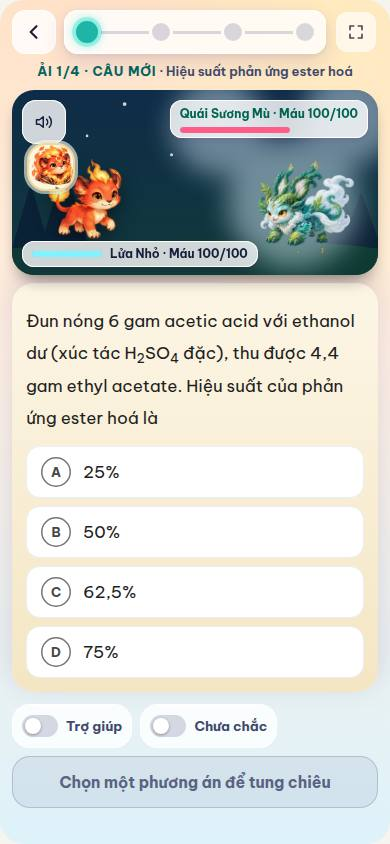
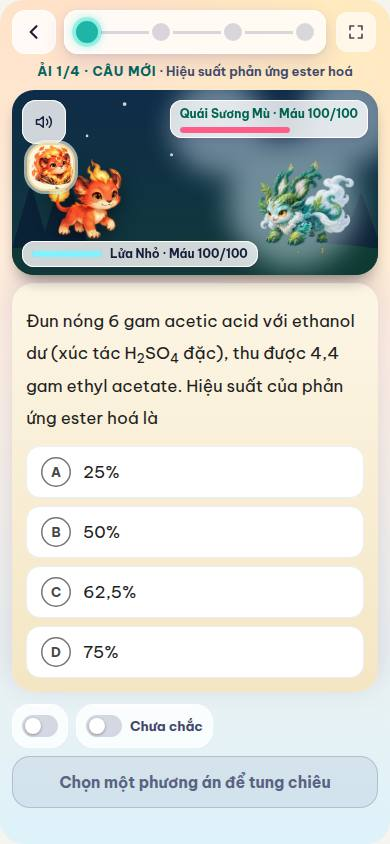
App học sinh giữ nguyên giao diện (thầy 05/10): hoàn nguyên 2 chỉnh ở Đảo + so điểm ảnh bản build thật main vs nhánh
Thầy: "app của học sinh giữ nguyên mọi thứ giao diện, hình nền màu nhé". Hoàn nguyên màu nút Hỏi thầy Đảo 2.0 và chữ chip Trợ giúp
(giữ đúng như bản đang chạy). So điểm ảnh bản build thật, giờ đóng băng, 9 màn học sinh: OMNI tắt khác 0 điểm ảnh ở cả 9 màn;
OMNI bật: Đảo chỉ khác đúng vùng chip "Chưa chắc" mới thêm, Sảnh lệch 1/255 (nhiễu dựng lớp). Bảng: docs/omni-0510/so-giao-dien-hs/KET-QUA.md.
Thầy dừng 4 làn tối ưu ⇒ sổ việc ghi KẸT, không gộp gì từ các làn.

Claude-Session: https://claude.ai/code/session_01CNsQjeB4jcWjbMohw272Tz

Changed region(s): [[0.3385, 0.8318, 0.6769, 0.8934], [0.1538, 0.8318, 0.3077, 0.8934]]

diff --git a/src/game/than-thu-v2/dao2/dao2.css b/src/game/than-thu-v2/dao2/dao2.css
@@ -495,16 +495,9 @@ html.may-yeu .dao2 .dao2-3d-bot,html.may-yeu .dao2 .dao2-3d-cuon,html.may-yeu .d
 }
 /* OMNI 3 (05/10) · chip "Chưa chắc" cạnh chip Trợ giúp: máy hẹp (≤ 400 px) vẫn giữ chữ — hai công tắc trơn đứng cạnh nhau không phân biệt được. */
 @media (max-width:400px){.dao2 .dao2-tro[data-khoi="chua-chac"] .dao2-tro-chu{display:inline}}
-/* Có chip "Chưa chắc" (OMNI bật) thì chip Trợ giúp cạnh nó cũng giữ chữ: một công tắc trơn không chữ đứng cạnh công tắc có chữ, em không biết
-   nó là gì (ảnh chụp 05/10). Hàng này đã xuống dòng nút chốt nên đủ chỗ. OMNI tắt ⇒ không có chip ⇒ y như cũ. */
-@media (max-width:400px){.dao2 .dao2-chan-hang:has([data-khoi="chua-chac"]) .dao2-tro-chu{display:inline}}
 /* OMNI 3 · ĐỀ THỬ: CHỈ bố cục — danh sách thẻ câu giấy của Đảo (dọc như ải), rộng tối đa 760 px cho dễ đọc; màu/nút dùng lại lớp sẵn có. */
 .dao2 .dao2-de-thu{display:flex;flex-direction:column;gap:12px;max-width:760px}
 .dao2 .dao2-de-thu-cau{display:flex;flex-direction:column;gap:6px}
-/* NÚT "HỎI THẦY" CỦA ĐẢO 2.0 = ĐÚNG MÀU CHUẨN của nút Hỏi thầy mọi màn khác (loi-giai.css: --m3-tertiary-container / --m3-on-tertiary-container;
- * thầy 05/10: "giữ nguyên mọi màu… thêm thì phải đồng bộ đúng chuẩn"). dao.css tô nút kiểu kính tối + chữ vàng cho Đảo cũ nền tối ⇒ trên thẻ
- * lời giải sáng của Đảo 2.0 thành chữ vàng trên nền kem, như nút bị khoá (đo trên bản build thật). Đặc hiệu 0,4,1 thắng `.dao.dao button.lg-nut--hoi`. */
-.dao.dao2.dao-v2 button.lg-nut--hoi{--nut-nen:var(--m3-tertiary-container);--nut-chu:var(--m3-on-tertiary-container);--nut-bong:none}
 /* ĐỀ THỬ (05/10): thanh nộp NỔI ở đáy suốt lúc làm (data-noi) — nút còn khoá có nền gần trong suốt (--d2-tat-nen) và dòng "Đã làm n/N câu"
  * không có nền ⇒ chữ thẻ câu bên dưới hiện xuyên qua, đè lên nhau (ảnh chụp 05/10). Ở ải thường thanh chỉ nổi khi đã chọn đáp án nên không gặp.
  * Cho thanh tấm nền KÍNH chuẩn của Đảo 2.0 (--d2-kinh + viền --d2-kinh-vien, đúng bộ màu chip Trợ giúp/Chưa chắc ngay trên — thầy 05/10:

diff --git a/SO-VIEC-OMNI-3.md b/SO-VIEC-OMNI-3.md
@@ -30,9 +30,9 @@ Mở 05/10/2026. Đặc tả: `DAC-TA-BUILD-OMNI-3-0510.md` (thắng mọi tệp
 
 - [x] "Làm luôn bộ sinh câu bảo toàn điện tích nhé" (thầy 05/10) ⇒ bộ sinh câu nền bao_toan_dien_tich, ion cùng tồn tại được, đáp án kiểm chéo độc lập ⇒ 27/29 bước | bằng chứng: 1995aeb6; omni-3-cau-nen-sinh 100/100 + chỉ số + nghiệm thu 103/103; tsc máy chủ sạch; 3 mẫu tính tay khớp (0,35 · 27,4 · 0,05)
 
-- [ ] "Tối ưu code cho tinh gọn" (thầy 05/10) ⇒ gọn mã OMNI: bỏ trùng lặp, mã chết, gộp hàm trùng | bằng chứng: (chưa có)
-- [ ] "tối ưu luôn cho máy chủ" ⇒ giảm số vòng D1 tuần tự + ms CPU ở lệnh nóng (hoa2-sanh, start, answer, việc đêm) | bằng chứng: (chưa có)
-- [ ] "app thật mượt mà nhanh gấp 2 lần hiện tại nhé" ⇒ đo bằng máy trên điện thoại yếu giả lập (scripts/do-app-hs.mjs) + đo máy chủ, so main hiện tại; mục tiêu ≥ 2× ở chỉ số chính | bằng chứng: (chưa có)
+- [!] "Tối ưu code cho tinh gọn" (thầy 05/10) ⇒ gọn mã OMNI: bỏ trùng lặp, mã chết, gộp hàm trùng | KẸT: thầy DỪNG cả 4 làn tối ưu (P1 mở app, P2 chuyển màn, P3 máy chủ, P4 gọn mã) lúc 05/10 khi nhắn "app của học sinh giữ nguyên mọi thứ giao diện"; theo lệnh không gộp gì từ các làn; số nền vẫn ở docs/toi-uu-0510/NEN.md; chờ thầy nói tiếp
+- [!] "tối ưu luôn cho máy chủ" ⇒ giảm số vòng D1 tuần tự + ms CPU ở lệnh nóng (hoa2-sanh, start, answer, việc đêm) | KẸT: thầy DỪNG cả 4 làn tối ưu (P1 mở app, P2 chuyển màn, P3 máy chủ, P4 gọn mã) lúc 05/10 khi nhắn "app của học sinh giữ nguyên mọi thứ giao diện"; theo lệnh không gộp gì từ các làn; số nền vẫn ở docs/toi-uu-0510/NEN.md; chờ thầy nói tiếp
+- [!] "app thật mượt mà nhanh gấp 2 lần hiện tại nhé" ⇒ đo bằng máy trên điện thoại yếu giả lập (scripts/do-app-hs.mjs) + đo máy chủ, so main hiện tại; mục tiêu ≥ 2× ở chỉ số chính | KẸT: thầy DỪNG cả 4 làn tối ưu (P1 mở app, P2 chuyển màn, P3 máy chủ, P4 gọn mã) lúc 05/10 khi nhắn "app của học sinh giữ nguyên mọi thứ giao diện"; theo lệnh không gộp gì từ các làn; số nền vẫn ở docs/toi-uu-0510/NEN.md; chờ thầy nói tiếp
 - [ ] "Chưa đẩy gì nhé" ⇒ KHÔNG deploy Worker/Pages, KHÔNG gộp main, KHÔNG migration --remote (chỉ đẩy nhánh tính năng để giữ việc) | bằng chứng: (chưa có)
 - [x] "Mục hỏi thầy theo thuật toán mới có tác dụng gì." (thầy 05/10) ⇒ giải thích bằng mã thật (không đoán) | bằng chứng: server/src/omni-p-vkn.ts (MS_SAU_DOC_LOI_GIAI 12 h, lượt có hỗ trợ không là quan sát), omni-d1.ts (chứng chỉ chỉ đếm lượt tự làm), loi-giai.ts (dòng xem_loi_giai); giao diện nút không đổi (diff main…HEAD không thêm chỗ Hỏi thầy nào)
 - [x] "Phần các câu cần chữa có thay đổi gì không?" ⇒ so main vs nhánh OMNI, nêu đúng chỗ đổi/không đổi | bằng chứng: OMNI tắt ⇒ thẻ "Cần thầy dạy lại" y nguyên; bật ⇒ "Cần thầy chữa" 3 nhóm (CanThayChuaOmni.tsx, omni-bang.ts NHOM_CAN_THAY_CHUA); luật vào danh sách (sai ≥ 4, lần cuối sai) không đổi (ho-so-nam-kt.ts); Buổi chữa chỉ đổi nguồn câu "Mở ca chốt" (BuoiChua.tsx); báo cáo ca thi (ca-thi/) không đổi. Sửa lỗi chữ tràn "…đơn chức2 em" (nguyên nhân gốc: luật chung `.cd-ds-cau li b:last-child { nowrap }` bắt nhầm tên câu) — đo hộp trong Chromium trước/sau, test bảng 35/35
@@ -43,6 +43,8 @@ Mở 05/10/2026. Đặc tả: `DAC-TA-BUILD-OMNI-3-0510.md` (thắng mọi tệp
 - [x] (tự phát sinh) Trang chụp: màn thầy thiếu khung app thầy (mất màu bảng nhiệt), Đảo thiếu dao.css (nút mất nền), số xem trước Bài 3 lệch | bằng chứng: 77b2f450, dcce6550
 - [x] "Tôi muốn giữ nguyên mọi màu sắc các lớp trong 3 app hiện tại" (thầy 05/10) ⇒ không đổi màu nào đang có ở 3 app | bằng chứng: scripts/kiem-mau-giu-nguyen.mjs (npm run kiem:mau-giu) so origin/main: 46 tệp src/ đổi · 0 khai báo màu bị đổi/xoá; tự thử 5 kiểu vi phạm đều bắt được (thoát 1), hoàn nguyên thoát 0; server/src + public: 0 dòng màu đổi; luật ghi vào CLAUDE.md + chuẩn mục 8; đã báo 4 làn tối ưu
 - [x] "bạn thêm thì phải đồng bộ đúng chuẩn nhé" ⇒ mọi màu OMNI/sửa mới thêm phải dùng biến màu chuẩn đang có của đúng app (không màu tự chế); soát toàn bộ phần thêm so main | bằng chứng: phần OMNI của các làn chỉ dùng biến (0 màu thô); màu tự chế DUY NHẤT là của điều phối (nút Hỏi thầy Đảo, 27f515ac) ⇒ đổi sang đúng biến của nút Hỏi thầy mọi màn (--m3-tertiary-container / --m3-on-tertiary-container), đo trên bản build thật: nền rgb(225,241,211) = biến chuẩn, chữ rgb(35,76,41) = biến chuẩn; thanh nộp Đề thử dùng bộ kính chuẩn Đảo 2.0 (--d2-kinh, --d2-kinh-vien) như chip ngay trên; test Đảo 35/35
+- [ ] "đưa nhóm câu sai từ từ 4 lần lên đầu thẻ néh" (thầy 05/10) ⇒ thẻ "Cần thầy chữa": nhóm "Câu sai từ 4 lần, đã rời kế hoạch" đứng ĐẦU, rồi nút thắt, rồi sơ ý | bằng chứng: (chưa có) — thầy DỪNG lượt sửa này (từ chối lệnh), chưa làm; chờ thầy nói tiếp
+- [x] "app của học sinh giữ nguyên mọi thứ giao diện, hình nền màu nhé" (thầy 05/10, kèm ảnh Sảnh bản đang chạy) ⇒ app học sinh nhìn y hệt bản đang chạy: bố cục, hình nền, màu; tối ưu không được đổi gì thấy được | bằng chứng: hoàn nguyên 2 chỉnh của điều phối ở Đảo (màu nút Hỏi thầy, chữ chip Trợ giúp); so điểm ảnh bản build thật main vs nhánh, giờ đóng băng: OMNI tắt 9/9 màn khác 0 điểm; OMNI bật: Đảo khác đúng vùng chip "Chưa chắc", Sảnh lệch 1/255 (nhiễu dựng lớp); docs/omni-0510/so-giao-dien-hs/KET-QUA.md
 
 ## Định nghĩa hoàn thành (chép từ đặc tả mục 9 — vạch đích, không đổi)
 

diff --git a/docs/omni-0510/so-giao-dien-hs/KET-QUA.md b/docs/omni-0510/so-giao-dien-hs/KET-QUA.md
@@ -1,0 +1,34 @@
+# App học sinh giữ nguyên giao diện — so điểm ảnh (05/10)
+
+Thầy: "app của học sinh giữ nguyên mọi thứ giao diện, hình nền màu nhé" (kèm ảnh Sảnh bản đang chạy).
+
+**Cách đo.** Bản build THẬT của app (không phải trang chụp thử): main `c74100ef` (bản đang chạy) và nhánh OMNI 3 (sau khi hoàn nguyên hai
+chỉnh màu/chữ của điều phối ở Đảo). Chromium, khổ 360×740 ×2, máy chủ giả của `scripts/do-app-hs.mjs` (không dữ liệu thật), cùng một giờ
+đóng băng (`page.clock.setFixedTime 2026-09-30T03:00Z`), tắt hoạt ảnh CHỈ lúc bấm chụp. So từng điểm ảnh bằng canvas của Chromium.
+Phép so tự thử: đưa hai màn khác nhau ⇒ 770 127 điểm khác (máy bắt được).
+
+## OMNI tắt (giống bản đang chạy của mọi lớp hôm nay)
+
+| Màn | Điểm ảnh | Khác |
+|---|---:|---:|
+| Đăng nhập | 1 065 600 | **0** |
+| Sảnh (tranh nền đảo, thần thú, khung đầu) | 1 065 600 | **0** |
+| Đảo · bản đồ | 1 065 600 | **0** |
+| Đảo · trận (đề + 4 phương án) | 1 065 600 | **0** |
+| Đảo · đã chọn đáp án | 1 065 600 | **0** |
+| Đảo · lời giải + nút Hỏi thầy | 1 065 600 | **0** |
+| Câu đã làm | 1 065 600 | **0** |
+| Đoàn Hộ Tống · trận | 1 065 600 | **0** |
+| Tu luyện | 1 065 600 | **0** |
+
+## OMNI bật (máy chủ giả trả thêm phần `omni`)
+
+| Màn | Kết quả |
+|---|---|
+| Đảo · trận | Khác đúng một vùng x 176–449, y 1208–1295 = chip **"Chưa chắc"** mới thêm; tranh nền, thẻ câu, màu trùng khít (`that-dao-omni-bat-vung-khac-360.jpg`, vùng đỏ) |
+| Sảnh · phần trên | 16 080 điểm lệch **1/255** (mắt không thấy — nhiễu dựng lớp vì bên dưới có thêm 3 dòng OMNI); không điểm nào lệch quá 1 |
+
+Ảnh: `that-sanh-ban-dang-chay-360.jpg` (main) · `that-sanh-nhanh-omni-tat-360.jpg` (nhánh) · `that-dao-loi-giai-hoi-thay-360.jpg` (nút Hỏi thầy đúng màu đang chạy).
+
+Ảnh Sảnh ở `docs/omni-0510/anh-build/` là TRANG CHỤP THỬ (component rời): trang ấy không dựng được tranh nền đảo nên phần đầu trông vỡ chữ —
+không phải app thật. App thật xem `that-sanh-*.jpg` ở thư mục này.
